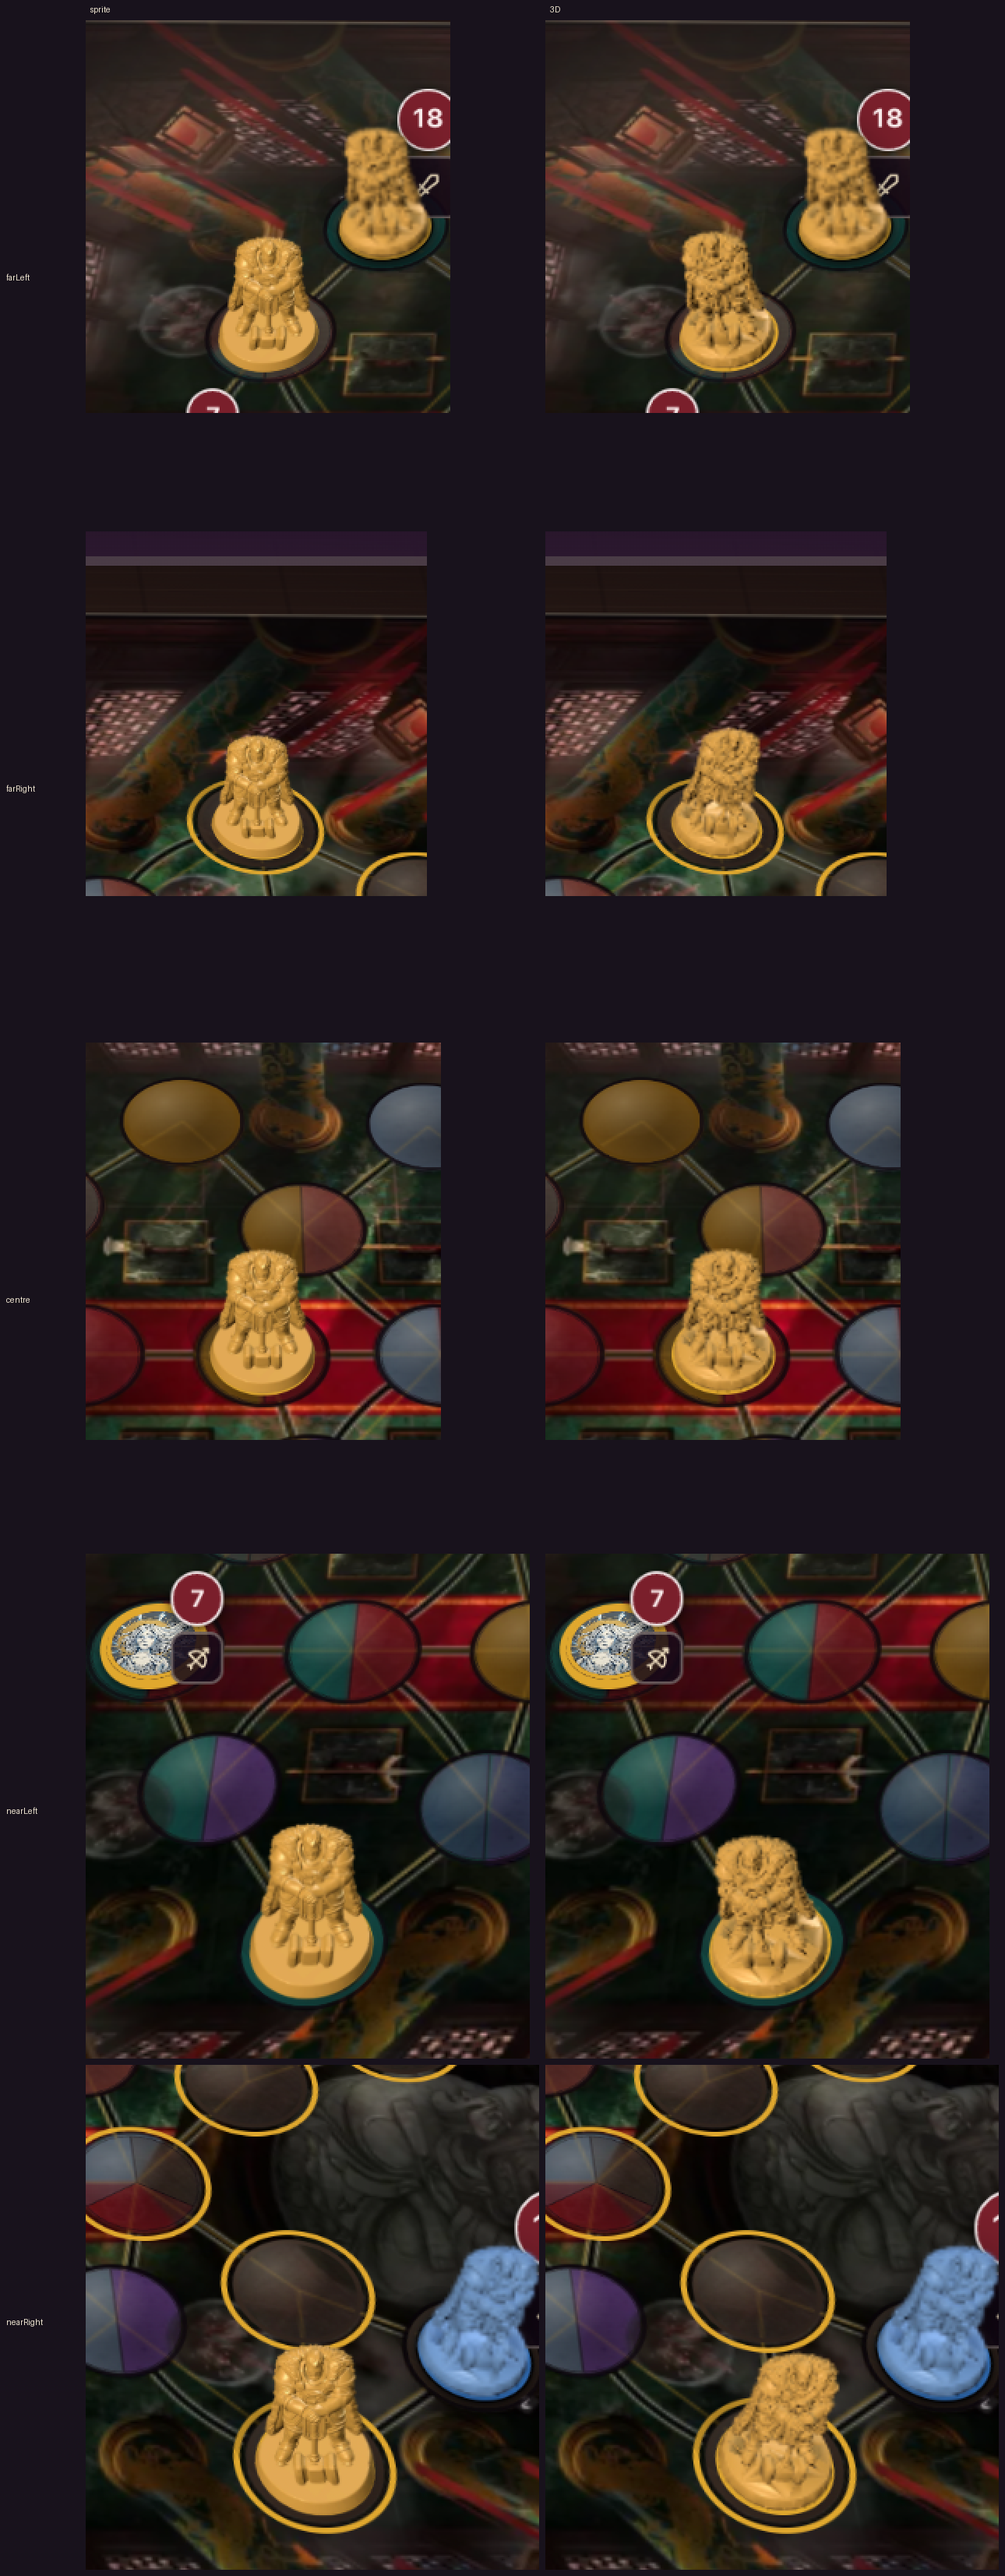
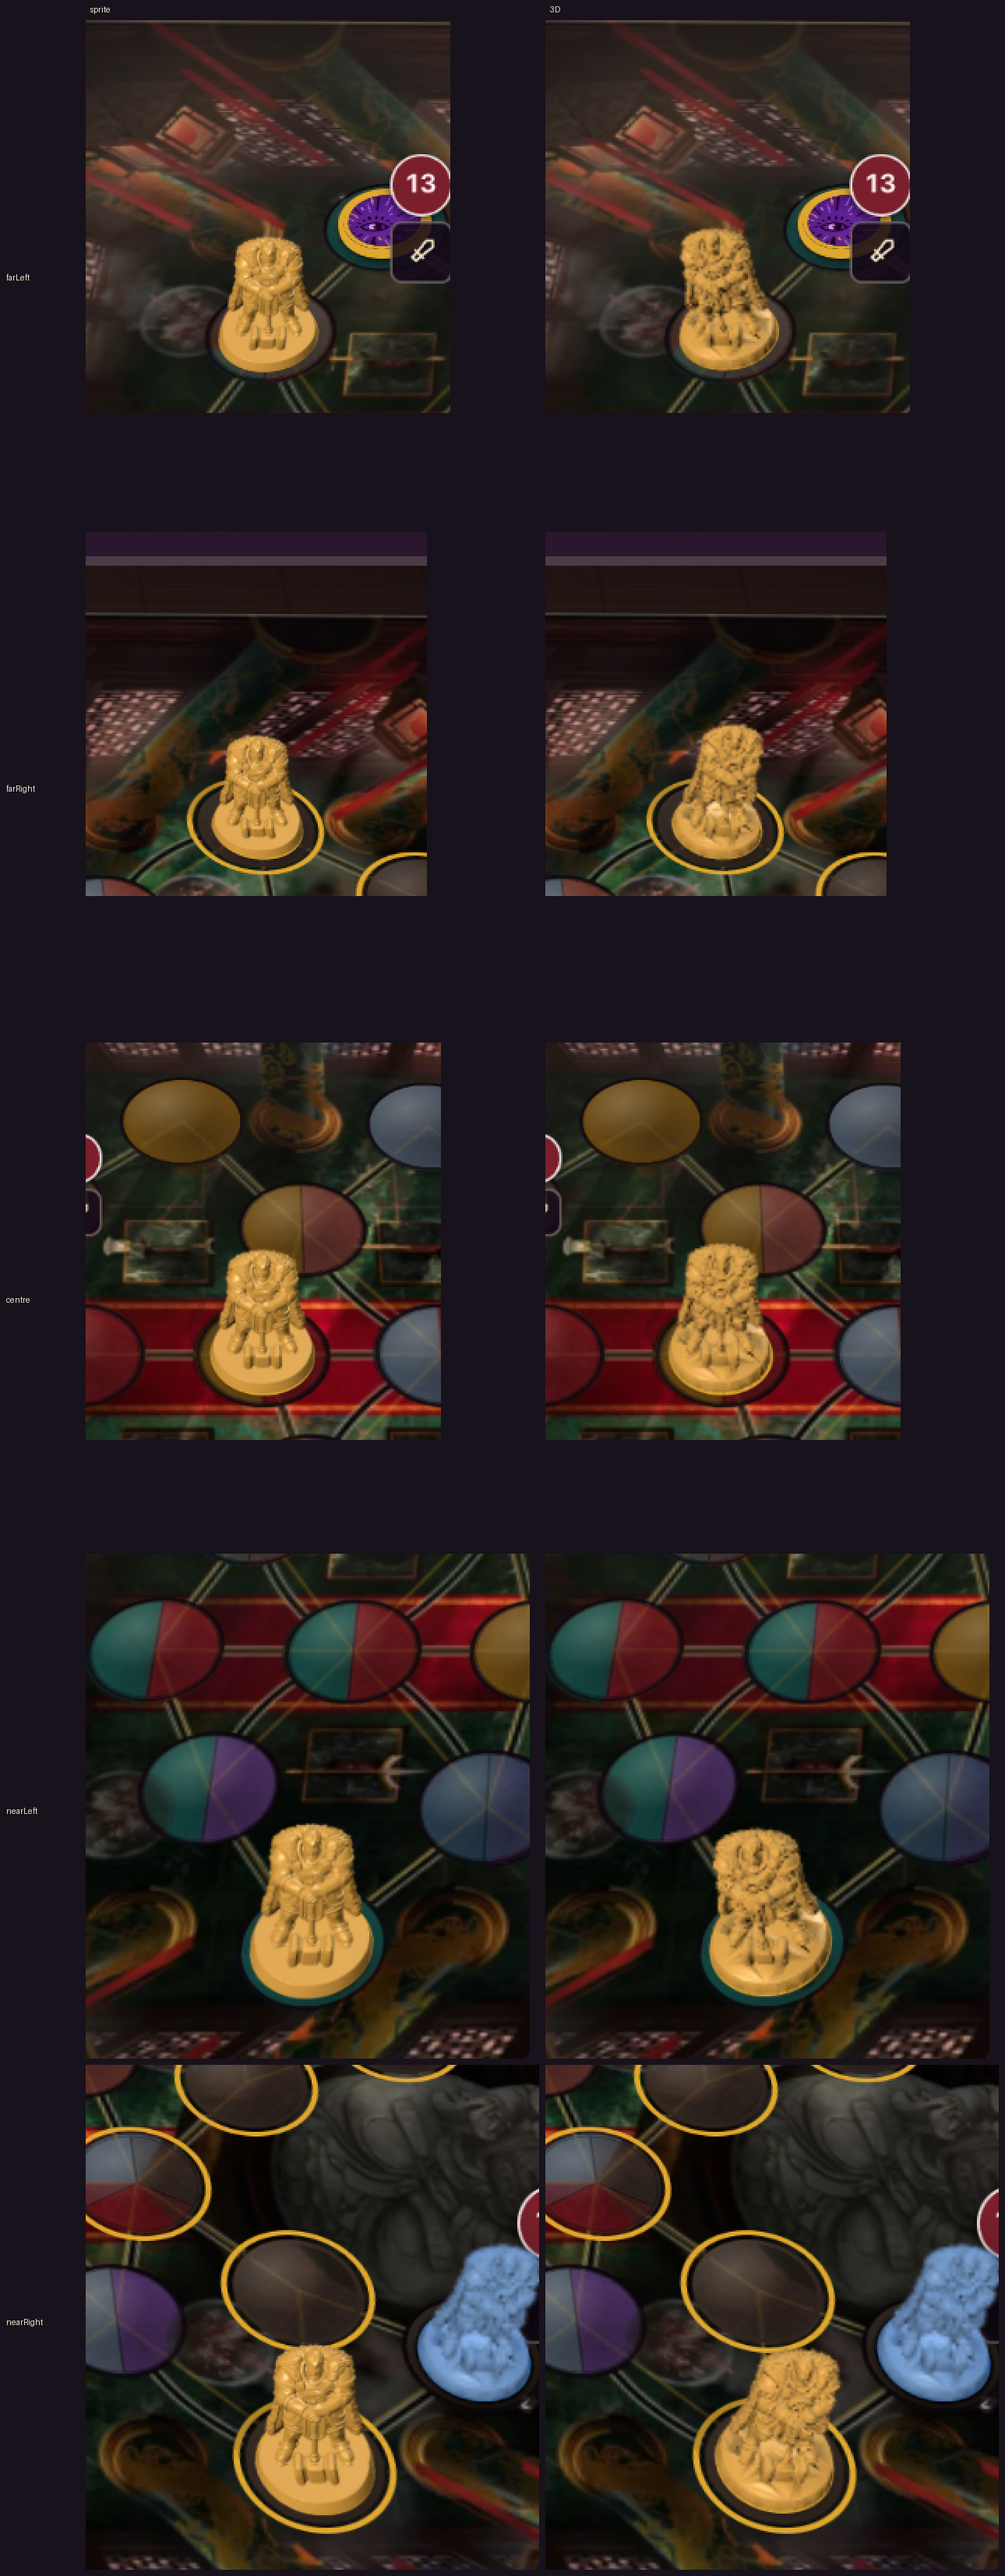
unbrewed-p2p-945: size a mini's base from the manifest's optional baseDiameter
The pipeline normalises a mini's base to an enclosing circle 1.0 across;
King Taranis's visible base is narrower (x 0.96820, z 0.96617 in its 1%
base band). The manifest entry now carries an optional `baseDiameter`
(model units, default 1.0) and the renderer maps it onto the disc, so an
entry without it draws exactly as before. king-taranis.play.glb: 0.9672.
match re-run: base width / disc 0.966–1.000 (was 0.925–0.969).

Claude-Session: https://claude.ai/code/session_01QL4CEKC188jTW6nHU1FDUw

diff --git a/components/Pro/Table/TableMini3D.test.tsx b/components/Pro/Table/TableMini3D.test.tsx
@@ -14,7 +14,9 @@ import { standingPose } from "@/lib/pro/minis3d/pose";
 import { placeStandee, standeeBaseDiameterPx } from "@/lib/pro/tableProjection";
 import { TableFighterStandee, heroPlateSize } from "./TableFighterStandee";
 import { TableSidekickToken } from "./TableSidekickToken";
-import { mini3dPlateSize } from "./TableMini3D";
+import { mini3dPlateSize, miniBounds } from "./TableMini3D";
+import { miniCamera } from "@/lib/pro/minis3d/camera";
+import { mini3dFor, parseMini3dManifest } from "@/lib/pro/minis3d/manifest";
 import { renderMini as renderMiniMocked } from "@/lib/pro/minis3d/renderer";
 
 // jest cannot resolve "@/…" in jest.mock (see the repo's memory notes): relative paths.
@@ -38,7 +40,8 @@ jest.mock("../../../lib/pro/minis3d/renderer", () => ({
 
 const model: MiniModel = {
   url: "/minis3d/kt.30k.meshopt.glb",
-  bounds: { min: [-0.7, 0, -0.7], max: [0.7, 1.9, 0.7], footprint: 1.4 },
+  // footprint 1: the model layer always reports the pipeline contract (MINI_FOOTPRINT).
+  bounds: { min: [-0.5, 0, -0.5], max: [0.5, 1.4, 0.5], footprint: 1 },
   parts: [],
   triangles: 1,
   bytes: 1,
@@ -53,6 +56,7 @@ const renderMini = renderMiniMocked as jest.Mock;
 const mini: Mini3d = {
   id: "kt@30k",
   url: model.url,
+  baseDiameter: 1,
   tint: "#b8893a",
   credit: { modelName: "m", creator: "c", license: "CC0-1.0", sourceUrl: "https://x" } as Mini3d["credit"],
 };
@@ -276,7 +280,7 @@ test("the badge plate comes from the model's projected bounds, not the sprite (#
   const root = container.querySelector("[data-standee-root]") as HTMLElement;
   const tokenPx = standeeBaseDiameterPx(40);
   const strip = heroPlateSize(null, tokenPx, tokenPx);
-  const want = mini3dPlateSize(model, rig, standingPose(0.3, 0.7), tokenPx, placeStandee(0.7, 40).scale, strip.widthPx, strip.heightPx);
+  const want = mini3dPlateSize(model, mini, rig, standingPose(0.3, 0.7), tokenPx, placeStandee(0.7, 40).scale, strip.widthPx, strip.heightPx);
   const sprite = heroPlateSize(figure, tokenPx, tokenPx);
   expect(want.heightPx).not.toBeCloseTo(sprite.heightPx, 0);
   expect(getComputedStyle(root).height).toBe(`${want.heightPx}px`);
@@ -307,4 +311,57 @@ test("a sidekick takes the same 3D mini with no renderer change", async () => {
   act(() => mockRenderer.set("lost"));
   expect(q(container).canvas).toBeNull();
   expect(q(container).token).not.toBeNull();
+});
+
+describe("the manifest's baseDiameter sizes the model to the disc", () => {
+  const entry = (extra: Record<string, unknown> = {}) =>
+    parseMini3dManifest({
+      version: 1,
+      minis: {
+        kt: {
+          files: { play: "kt.play.glb" },
+          license: "CC0-1.0",
+          redistributable: true,
+          officialHero: false,
+          modelName: "m",
+          creator: "c",
+          sourceUrl: "https://unbrewed.xyz",
+          ...extra,
+        },
+      },
+    });
+  const scaleOf = (m: number[]) => Math.hypot(m[0], m[1], m[2]);
+  const camFor = (m: Mini3d) => miniCamera({ rig, pose: standingPose(0.3, 0.7), baseDiamPx: 30, bounds: miniBounds(model, m) });
+
+  test("an entry without the field draws exactly as before (the model's own bounds)", async () => {
+    const plain = mini3dFor(entry(), "kt", "p1")!;
+    expect(plain.baseDiameter).toBe(1);
+    expect(miniBounds(model, plain)).toEqual(model.bounds);
+    expect(camFor(plain)).toEqual(miniCamera({ rig, pose: standingPose(0.3, 0.7), baseDiamPx: 30, bounds: model.bounds }));
+    // And the piece hands the renderer that same camera.
+    standee({ mini3d: plain });
+    await flush();
+    const cam = renderMini.mock.calls[0][2];
+    const before = miniCamera({
+      rig,
+      pose: standingPose(0.3, 0.7),
+      baseDiamPx: standeeBaseDiameterPx(40) * placeStandee(0.7, 40).scale,
+      bounds: model.bounds,
+    });
+    expect(cam).toEqual(before);
+  });
+
+  test("an entry with it scales the model by 1 / baseDiameter", async () => {
+    const plain = mini3dFor(entry(), "kt", "p1")!;
+    const sized = mini3dFor(entry({ baseDiameter: 0.9672 }), "kt", "p1")!;
+    expect(sized.baseDiameter).toBe(0.9672);
+    expect(scaleOf(camFor(sized).model) / scaleOf(camFor(plain).model)).toBeCloseTo(1 / 0.9672, 9);
+    // Through the piece, too: what reaches the renderer is scaled the same way.
+    standee({ mini3d: plain });
+    await flush();
+    standee({ mini3d: sized });
+    await flush();
+    const [a, b] = renderMini.mock.calls.map((c) => scaleOf(c[2].model));
+    expect(b / a).toBeCloseTo(1 / 0.9672, 9);
+  });
 });

diff --git a/components/Pro/Table/TableMini3D.tsx b/components/Pro/Table/TableMini3D.tsx
@@ -26,7 +26,7 @@ import { useEffect, useLayoutEffect, useMemo, useRef } from "react";
 import { Box } from "@chakra-ui/react";
 import { miniCamera, miniPixelRatio, miniPlaneTransform, miniPlateBox, type MiniCamera, type TableRig } from "@/lib/pro/minis3d/camera";
 import type { Mini3d } from "@/lib/pro/minis3d/manifest";
-import type { MiniModel } from "@/lib/pro/minis3d/model";
+import type { MiniModel, ModelBounds } from "@/lib/pro/minis3d/model";
 import { standingPose, type MiniPose } from "@/lib/pro/minis3d/pose";
 import { renderMini } from "@/lib/pro/minis3d/renderer";
 import { minis3dScheduler } from "@/lib/pro/minis3d/scheduler";
@@ -45,12 +45,23 @@ export const useTableMini3d = (mini: Mini3d | null, rig: TableRig | null): MiniM
 };
 
 /**
+ * The model's bounds as the camera sizes them: its base spans the disc by the
+ * manifest's `baseDiameter` (the visible base, default 1.0), not by the
+ * pipeline's enclosing-circle footprint.
+ */
+export const miniBounds = (model: MiniModel, mini: Pick<Mini3d, "baseDiameter">): ModelBounds => ({
+  ...model.bounds,
+  footprint: mini.baseDiameter,
+});
+
+/**
  * The upright plate a 3D mini's badges hang off, px in plate units: the
  * model's own projected box at rest (#929), never smaller than the flat
  * token's strip (`minW`, `minH`).
  */
 export const mini3dPlateSize = (
   model: MiniModel,
+  mini: Pick<Mini3d, "baseDiameter">,
   rig: TableRig,
   pose: MiniPose,
   baseDiamPx: number,
@@ -58,7 +69,7 @@ export const mini3dPlateSize = (
   minW: number,
   minH: number
 ): { widthPx: number; heightPx: number } => {
-  const cam = miniCamera({ rig, pose, baseDiamPx: baseDiamPx * groundScale, bounds: model.bounds });
+  const cam = miniCamera({ rig, pose, baseDiamPx: baseDiamPx * groundScale, bounds: miniBounds(model, mini) });
   const box = miniPlateBox(cam, groundScale);
   return { widthPx: Math.max(minW, 2 * box.halfWidth), heightPx: Math.max(minH, box.height) };
 };
@@ -130,7 +141,7 @@ export const TableMini3D = ({
       // The base disc carries the anchor's depth scale (#926), so the model's
       // base spans the disc AS DRAWN: its diameter times that same scale.
       baseDiamPx: baseDiamPx * groundScale,
-      bounds: model.bounds,
+      bounds: miniBounds(model, mini),
     });
     minis3dScheduler().request(key, () => {
       const plane = planeRef.current, canvas = canvasRef.current, hit = hitRef.current;
@@ -170,7 +181,7 @@ export const TableMini3D = ({
   // redraws only if the camera key changed.
   useLayoutEffect(() => {
     if (!animating) placeRef.current(standingPose(x, y), true);
-  }, [animating, x, y, frameW, frameH, tiltDeg, yawDeg, perspectiveRatio, baseDiamPx, groundScale, model, mini.tint, maxPixelRatio, hitTarget]);
+  }, [animating, x, y, frameW, frameH, tiltDeg, yawDeg, perspectiveRatio, baseDiamPx, groundScale, model, mini.tint, mini.baseDiameter, maxPixelRatio, hitTarget]);
 
   // Tweening: follow the anchor's animated left/top, one sample a frame.
   useEffect(() => {

diff --git a/lib/pro/minis3d/manifest.ts b/lib/pro/minis3d/manifest.ts
@@ -14,6 +14,11 @@
  * the manifest (`EXT_meshopt_compression` + `KHR_mesh_quantization`). One
  * play-tier file per mini is committed; `defaultLod` picks it. `paint` is
  * reserved for a painted variant (same mesh + a texture); nothing reads it yet.
+ *
+ * `baseDiameter` (optional, model units, default 1.0): the width of the
+ * model's VISIBLE base. The pipeline normalises a mini so its base's enclosing
+ * circle is 1.0 across, which can be wider than the base itself; the renderer
+ * maps `baseDiameter` — not 1.0 — onto the base disc.
  */
 import { creditOf, isCleared, type FigureCredit } from "../figures";
 
@@ -24,6 +29,8 @@ export interface Mini3dEntry {
   files: Record<string, string>;
   /** The detail level used unless the dev switch names another. */
   defaultLod: string;
+  /** Model units spanning the base disc (default 1.0). */
+  baseDiameter: number;
   credit: FigureCredit;
 }
 
@@ -36,12 +43,19 @@ export interface Mini3dManifest {
 export interface Mini3d {
   id: string;
   url: string;
+  /** Model units spanning the base disc (the entry's `baseDiameter`). */
+  baseDiameter: number;
   /** sRGB hex. */
   tint: string;
   credit: FigureCredit;
 }
 
 const isRecord = (v: unknown): v is Record<string, unknown> => typeof v === "object" && v !== null && !Array.isArray(v);
+/** The pipeline's base footprint: 1 model unit (see the header). */
+export const DEFAULT_BASE_DIAMETER = 1;
+const baseDiameterOf = (v: unknown): number =>
+  typeof v === "number" && Number.isFinite(v) && v > 0 && v <= 10 ? v : DEFAULT_BASE_DIAMETER;
+
 const isFileName = (v: unknown): v is string => typeof v === "string" && /^[A-Za-z0-9._-]+\.glb$/.test(v) && !v.includes("..");
 
 export const parseMini3dManifest = (raw: unknown): Mini3dManifest | null => {
@@ -55,7 +69,7 @@ export const parseMini3dManifest = (raw: unknown): Mini3dManifest | null => {
     const files = Object.fromEntries(Object.entries(entry.files).filter(([, f]) => isFileName(f))) as Record<string, string>;
     const defaultLod = typeof entry.defaultLod === "string" && files[entry.defaultLod] ? entry.defaultLod : Object.keys(files)[0];
     if (!defaultLod) continue;
-    minis[id] = { files, defaultLod, credit };
+    minis[id] = { files, defaultLod, baseDiameter: baseDiameterOf(entry.baseDiameter), credit };
   }
   return { version: 1, minis };
 };
@@ -76,6 +90,7 @@ export const mini3dFor = (
   return {
     id: `${miniId}@${key}`,
     url: `${MINIS3D_BASE_URL}/${entry.files[key]}`,
+    baseDiameter: entry.baseDiameter,
     tint: MINI3D_SEAT_TINTS[seat] ?? MINI3D_SEAT_TINTS.p1,
     credit: entry.credit,
   };

diff --git a/lib/pro/minis3d/manifest.test.ts b/lib/pro/minis3d/manifest.test.ts
@@ -57,6 +57,14 @@ describe("the 3D minis manifest", () => {
     expect(parse(entry(over))?.minis.kt).toBeUndefined();
   });
 
+  test("baseDiameter: 1.0 when absent or unusable, else the entry's own value", () => {
+    expect(parse(entry())?.minis.kt?.baseDiameter).toBe(1);
+    expect(mini3dFor(parse(entry()), "kt", "p1")?.baseDiameter).toBe(1);
+    expect(parse(entry({ baseDiameter: 0.9672 }))?.minis.kt?.baseDiameter).toBe(0.9672);
+    expect(mini3dFor(parse(entry({ baseDiameter: 0.9672 })), "kt", "p1")?.baseDiameter).toBe(0.9672);
+    for (const bad of [0, -1, "0.9", NaN, Infinity, 50]) expect(parse(entry({ baseDiameter: bad }))?.minis.kt?.baseDiameter).toBe(1);
+  });
+
   test("drops file names that are not bare .glb names", () => {
     const m = parse(entry({ files: { a: "../x.glb", b: "x.png", c: "ok.glb" }, defaultLod: "a" }));
     expect(m?.minis.kt?.files).toEqual({ c: "ok.glb" });

diff --git a/components/Pro/Table/TableFighterStandee.tsx b/components/Pro/Table/TableFighterStandee.tsx
@@ -173,7 +173,7 @@ export const TableFighterStandee = ({
   // A 3D mini's badges hang off the model's own projected bounds (#929).
   const strip = heroPlateSize(null, tokenPx, figureBaseDiamPx);
   const { widthPx, heightPx } = use3d
-    ? mini3dPlateSize(model3d, rig!, standingPose(x, y), figureBaseDiamPx, groundScale, strip.widthPx, strip.heightPx)
+    ? mini3dPlateSize(model3d, mini3d!, rig!, standingPose(x, y), figureBaseDiamPx, groundScale, strip.widthPx, strip.heightPx)
     : heroPlateSize(figure, tokenPx, figureBaseDiamPx);
   const statusBadges = fighterStatusBadgesFor(fighter);
   const fighterClickable = targetable && !!onClick;

diff --git a/components/Pro/Table/TableSidekickToken.tsx b/components/Pro/Table/TableSidekickToken.tsx
@@ -91,7 +91,7 @@ export const TableSidekickToken = ({
   const model3d = useTableMini3d(mini3d, rig);
   const groundScale = placeStandee(stack ? stack.depthY : y, tiltDeg).scale;
   const plate = model3d
-    ? mini3dPlateSize(model3d, rig!, standingPose(x, y), sizePx, groundScale, sizePx, sizePx * TOKEN_BADGE_PLATE_HEIGHT)
+    ? mini3dPlateSize(model3d, mini3d!, rig!, standingPose(x, y), sizePx, groundScale, sizePx, sizePx * TOKEN_BADGE_PLATE_HEIGHT)
     : { widthPx: sizePx, heightPx: sizePx * TOKEN_BADGE_PLATE_HEIGHT };
   const plateHeightPx = plate.heightPx;
   const fighterClickable = targetable && !!onClick;
